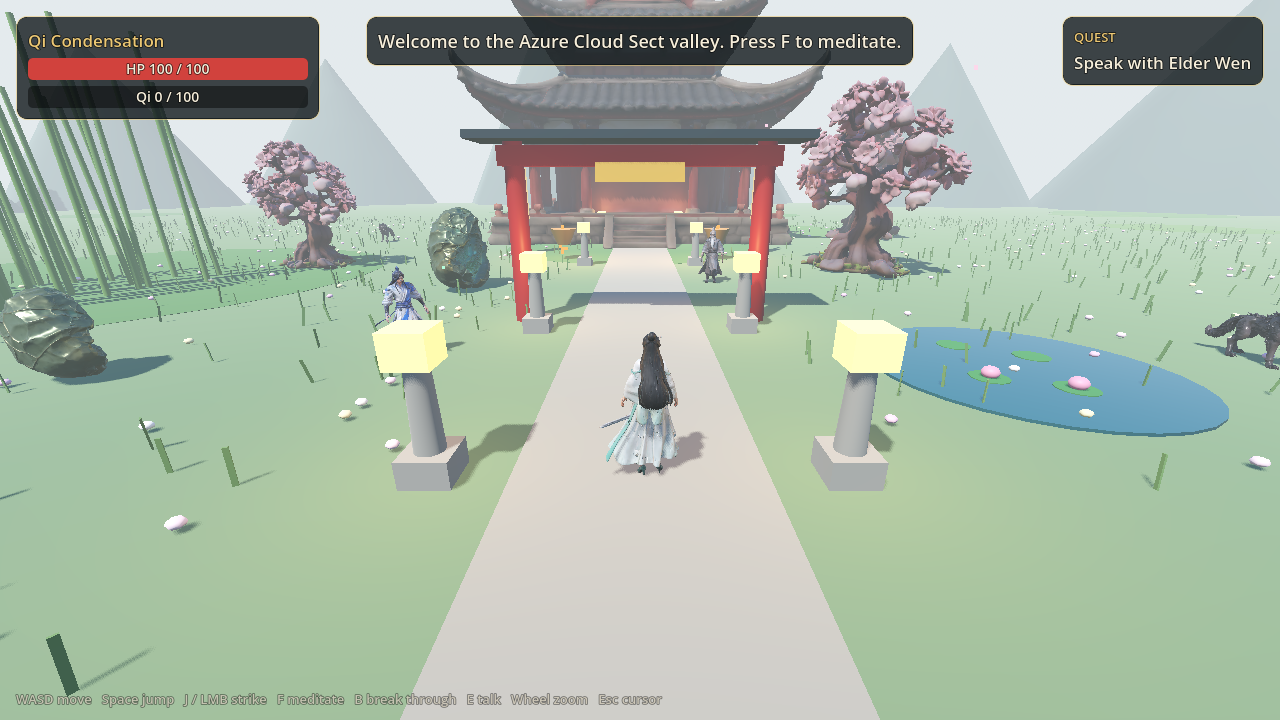
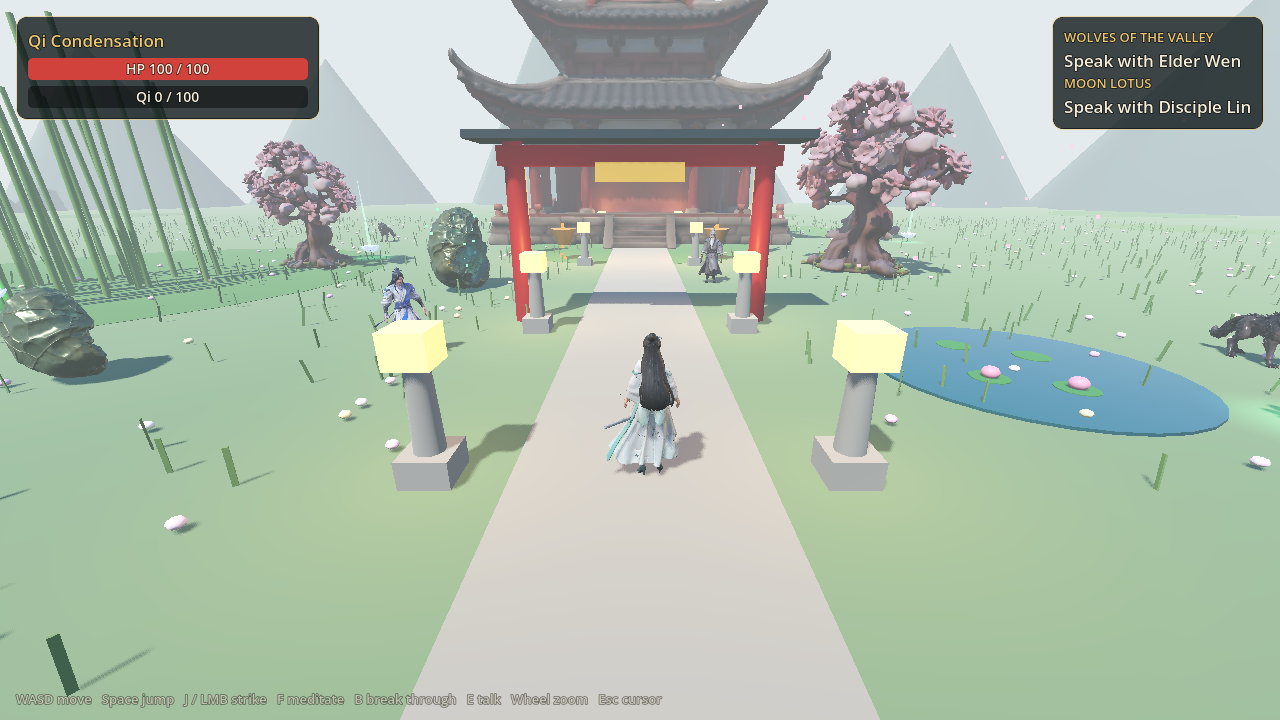
Document the quests and the Compatibility renderer fix, refresh screenshots
Claude-Session: https://claude.ai/code/session_01YPkfWWBpRmAJmyiDTuDRBs

diff --git a/docs/architecture.md b/docs/architecture.md
@@ -14,8 +14,10 @@ flowchart TD
     main --> ground["Ground + stone path"]
     main --> scenery["Scenery props<br/>walk-in sect hall, spirit trees, jade rocks"]
     main --> decor["ValleyDecor<br/>mountains, grass, flowers, pond,<br/>bamboo, lanterns, gate, braziers"]
-    main --> npcs["Npc x2<br/>Elder Wen (quest), Disciple Lin"]
-    main --> beasts["SpiritBeast x3<br/>demon wolves"]
+    main --> npcs["Npc x2<br/>Elder Wen (wolves, alpha), Disciple Lin (moon lotus)"]
+    main --> beasts["SpiritBeast x3<br/>demon wolves, respawn after 30 s"]
+    main -.-> alpha["SpiritBeast<br/>Demon Wolf Alpha, spawned by Elder Wen's second quest"]
+    main --> herbs["SpiritHerb x6<br/>moon lotuses"]
     main --> hud["Hud (CanvasLayer)"]
     main --> player["Cultivator (player)"]
     player --> visual["Visual (rigged female cultivator)"]
@@ -30,15 +32,16 @@ flowchart TD
 flowchart LR
     subgraph Core
         cultivation["Cultivation<br/>qi and realms"]
-        quest["WolfQuest<br/>accept, count, turn in"]
+        quest["CountQuest x3<br/>accept, count, turn in"]
         animator["CharacterAnimator<br/>clips and one-shot actions"]
-        model_utils["ModelUtils<br/>fit, bounds, yaw"]
+        model_utils["ModelUtils<br/>fit, bounds, yaw,<br/>Compatibility normal-map fix"]
         input_setup["InputSetup<br/>key bindings"]
     end
     subgraph Gameplay
         player["Cultivator"]
         beast["SpiritBeast"]
         npc["Npc"]
+        herb["SpiritHerb"]
     end
     decor["ValleyDecor<br/>procedural scenery"]
     main["Main<br/>wiring"]
@@ -60,7 +63,10 @@ flowchart LR
     player -- message / stats_changed / prompt_changed --> hud
     beast -- died(qi_reward) --> main
     npc -- talked --> main
-    main -- update_stats / set_quest --> hud
+    herb -- gathered --> main
+    player -- "interact() on the nearest interactable" --> npc
+    player -- "interact()" --> herb
+    main -- update_stats / set_quests --> hud
 ```
 
 ## Class overview
@@ -75,12 +81,20 @@ classDiagram
         +gain_qi(amount)
         +try_breakthrough() bool
     }
-    class WolfQuest {
+    class CountQuest {
         +Step step
-        +int slain
-        +record_kill()
+        +int done
+        +String giver
+        +String task
+        +record()
         +talk() float
         +objective_text() String
+    }
+    class SpiritHerb {
+        +String display_name
+        +float qi_reward
+        +prompt_text() String
+        +interact(player)
     }
     class CharacterAnimator {
         +play(state)
@@ -97,8 +111,10 @@ classDiagram
     }
     class SpiritBeast {
         +float hp
+        +Color aura
         +CharacterAnimator animator
         +take_damage(amount)
+        +is_dead() bool
     }
     class Npc {
         +String display_name
@@ -110,12 +126,14 @@ classDiagram
     }
     class Hud {
         +update_stats(hp, max_hp, realm, qi, qi_required, at_peak)
-        +set_quest(text, complete)
+        +set_quests(entries)
+        +quest_lines() PackedStringArray
         +show_message(text, duration)
     }
     class ModelUtils {
         <<static>>
         +fit_to_height(root, height) AABB
+        +fix_skinned_normal_maps(root, method) int
         +yaw_towards(direction) float
     }
     class ValleyDecor {
@@ -123,7 +141,9 @@ classDiagram
         +build(root)
     }
     class Main {
-        -WolfQuest _quest
+        -CountQuest _quest
+        -CountQuest _alpha_quest
+        -CountQuest _herb_quest
     }
     Cultivator *-- Cultivation : owns
     Cultivator *-- CharacterAnimator : drives
@@ -132,7 +152,9 @@ classDiagram
     Cultivator ..> SpiritBeast : strikes
     SpiritBeast ..> Cultivator : attacks
     Npc ..> Cultivator : interacts with
-    Main *-- WolfQuest : owns
+    Main *-- CountQuest : owns 3
+    Main o-- SpiritHerb
+    SpiritHerb ..> Cultivator : gathered by
     Main o-- Cultivator
     Main o-- SpiritBeast
     Main o-- Npc
@@ -140,21 +162,44 @@ classDiagram
     Main ..> ValleyDecor : builds
 ```
 
-## Quest state
+## Quests
 
-`WolfQuest` holds the rules, and `Main` shows the dialogue. Every wolf slain is counted, including
-wolves killed before the quest was accepted. Talking to Elder Wen accepts the quest and turns it in
-on the same visit when enough wolves are already slain.
+Each quest is a `CountQuest`: pure rules for accepting, counting and turning in, with the giver's
+name and the task in its objective. `Main` owns three and shows the dialogue. Everything counts,
+including what was done before the quest was accepted, and talking to the giver accepts the quest
+and turns it in on the same visit when the count is already met.
 
 ```mermaid
 stateDiagram-v2
     [*] --> NotStarted
-    NotStarted --> Active: talk to Elder Wen (accept)
-    NotStarted --> Complete: talk after 2 wolves slain (accept and turn in, +150 qi)
-    Active --> Active: talk before 2 wolves are slain
-    Active --> Complete: talk after 2 wolves are slain (+150 qi)
+    NotStarted --> Active: talk to the giver (accept)
+    NotStarted --> Complete: talk with the count already met (accept and turn in)
+    Active --> Active: talk before the count is met
+    Active --> Complete: talk after the count is met (reward)
     Complete --> [*]
 ```
+
+The three quests and what they pay:
+
+```mermaid
+flowchart LR
+    subgraph wen["Elder Wen"]
+        wolves["Wolves of the valley<br/>slay 2 demon wolves<br/>+150 qi"] --> alpha["The alpha<br/>talk again: the alpha appears behind the hall<br/>slay it, +300 qi"]
+    end
+    subgraph lin["Disciple Lin"]
+        lotus["Moon lotus<br/>gather 4 of the 6 lotuses, +10 qi each<br/>turn in, +120 qi"] --> advice["Her advice lines"]
+    end
+    kills["Each wolf slain<br/>+40 qi, respawns in 30 s"] --> wolves
+```
+
+The HUD lists Elder Wen's current hunt above Lin's lotus quest. A slain wolf of the pack returns to
+its den 30 s later, once the cultivator is at least 14 m away, so there is always qi to hunt for.
+The alpha is a `SpiritBeast` half as tall again as a wolf, with 220 health, a 16 damage bite and a
+red rim of qi drawn by an additive overlay shader; it does not respawn.
+
+Moon lotuses glow and carry a faint beam of qi so they can be found from across the valley. The
+cultivator's interact key talks to an NPC or gathers a lotus: both join the `interactables` group
+and share `prompt_text()` and `interact()`, and the nearest one within 3 m wins.
 
 ## Animation states
 
@@ -252,6 +297,34 @@ flowchart LR
     beast["SpiritBeast"] -- "yaw_towards(to_player)" --> yaw
 ```
 
+### Normal maps on the Compatibility renderer
+
+The game runs on Forward+, and Godot falls back to the Compatibility renderer (OpenGL 3) when
+Vulkan is missing. That renderer skins meshes in a transform-feedback pass that never binds the
+`TANGENT` attribute (`drivers/gles3/storage/mesh_storage.cpp` in 4.7.2), so every vertex of a
+skinned mesh comes out with the same tangent. A tangent-space normal map is then read in the wrong
+frame, and on the characters, whose UV charts all have their own tangent frames, faces broke into
+pale and dark patches. `ModelUtils.fix_skinned_normal_maps` turns the normal maps of skinned meshes
+off on that renderer only, which leaves the smooth vertex normals and the baked colour.
+
+```mermaid
+flowchart TD
+    model["Character GLB<br/>TANGENT per vertex, 2048 px normal map"] --> method{"Rendering method"}
+    method -- forward_plus / mobile --> fp["Skinned on the GPU with tangents<br/>normal map lit as baked"]
+    method -- gl_compatibility --> tf["Transform feedback skinning<br/>TANGENT never bound, one constant tangent"]
+    tf --> fix["fix_skinned_normal_maps<br/>override material, normal map off"]
+    fix --> clean["Smooth vertex normals<br/>and the 4096 px base colour"]
+```
+
+![Tangents of the skinned cultivator in both renderers](normal-fix/skinned_tangents.png)
+
+Left: `TANGENT` drawn as a colour on Forward+, one frame per UV chart as the file stores them.
+Right: the same on Compatibility, one colour everywhere.
+
+![The cultivator in the valley on the Compatibility renderer, before and after](normal-fix/in_game_compatibility.png)
+
+The cultivator in the valley on the Compatibility renderer, before and after.
+
 GLB textures are embedded in the GLB. Godot's import setting `gltf/embedded_image_handling=2`
 compresses them into the imported scene, so no texture files are extracted next to the models.
 
@@ -291,7 +364,7 @@ flowchart LR
     push["Push or pull request"] --> lint["lint job<br/>gdlint + gdformat --check"]
     push --> test["test job<br/>Godot 4.7.2 headless"]
     test --> import["godot --import"]
-    import --> run["run_tests.gd<br/>cultivation, quest, animation, model fitting,<br/>character rigs, scene boot, walking, hall"]
+    import --> run["run_tests.gd<br/>cultivation, quests, animation, model fitting,<br/>character rigs, scene boot, quest line, walking, hall"]
     lint --> result{"All checks pass?"}
     run --> result
 ```
@@ -301,7 +374,9 @@ faces +Z, that no vertex is pinned to the dummy `neutral_bone`, and that no tria
 6x in any of three poses of every clip. That last check skins the mesh on the CPU, so it catches
 the spikes and smeared textures that broken skin weights cause, which a screenshot would only show
 by eye. A walking check holds each movement key in turn and asserts that the cultivator ends up
-facing the way it moves.
+facing the way it moves. A quest-line check plays both quest givers through in the real scene:
+it gathers four lotuses and turns them in to Lin, slays two wolves for Elder Wen, takes the alpha
+quest, slays the alpha and checks the qi paid and the tracker at every step.
 
 Run the suite locally with:
 

diff --git a/README.md b/README.md
@@ -30,6 +30,10 @@ full-size 4096 px model, with extra room for the head, so faces stay sharp up cl
 | --- |
 | ![Wolf charge](docs/screenshots/wolf_charge.png) |
 
+| Gathering a moon lotus for Disciple Lin | The Demon Wolf Alpha behind the hall |
+| --- | --- |
+| ![Moon lotus](docs/screenshots/moon_lotus.png) | ![Wolf alpha](docs/screenshots/wolf_alpha.png) |
+
 ### Faces, before and after the texture bake
 
 ![The cultivator's face in the valley, before and after](docs/texture-fix/in_game_face.png)
@@ -39,6 +43,16 @@ full model into a layout that gives the head nine times the area per unit of sur
 [asset pipeline](docs/asset-pipeline.md#sharp-faces-bake-from-the-full-model) explains why the old
 face was soft and how the bake works. The new shot is `player_face_closeup.png`, taken with a
 camera closer than the game's zoom goes.
+
+### Faces on the Compatibility renderer, before and after
+
+![Faces on the Compatibility renderer, before and after](docs/normal-fix/faces_compatibility.png)
+
+When Vulkan is missing, Godot falls back to its Compatibility renderer, whose skinning pass drops
+the tangents of every skinned mesh. The characters' normal maps were then read in the wrong frame
+and their faces broke into pale and dark patches (left). The game now turns those normal maps off
+on that renderer only (right); Forward+ keeps them. See
+[Model handling](docs/architecture.md#normal-maps-on-the-compatibility-renderer).
 
 ### Animation, before and after the rig repair
 
@@ -57,8 +71,12 @@ Top: Tripo's own `walk`, in profile and torn by its skin weights. Bottom: the re
   the blade does, a quarter of a second after the key press. Wolves charge, flinch when hit and
   bite.
 - **Quest.** Elder Wen sends you after two wolves and rewards you with qi when you return. Wolves
-  slain before you accept the quest count towards it.
-- **Meet the sect.** Disciple Lin at the gate shares advice when you talk to her.
+  slain before you accept the quest count towards it. Talk to him again and he sends you after
+  the **Demon Wolf Alpha**, a larger wolf wreathed in red qi that waits behind the hall.
+- **Gather herbs.** Disciple Lin at the gate asks for four moon lotuses. They glow by the pond, in
+  the bamboo grove, under the spirit trees and behind the hall; press `E` beside one to gather it.
+  Once you have brought them she shares her advice.
+- **Keep hunting.** A slain wolf returns to its den 30 seconds later, once you are out of sight.
 - **Enter the sect hall.** The hall is twice the height of the other buildings. Climb the stairs on
   its east side, walk along the entry gallery and drop into the cella. Its walls, pillars and
   stairs block you exactly where they are drawn.
@@ -74,7 +92,7 @@ Top: Tripo's own `walk`, in profile and torn by its skin weights. Bottom: the re
 | Attack | `J` or left mouse button |
 | Meditate (toggle) | `F` |
 | Break through | `B` |
-| Talk to an NPC | `E` |
+| Talk to an NPC, gather a lotus | `E` |
 
 ## Running the game
 
@@ -89,7 +107,7 @@ godot --path .                       # launch the game
 
 ```bash
 godot --headless --path . --import
-godot --headless --path . --script res://tests/run_tests.gd   # 93 headless checks
+godot --headless --path . --script res://tests/run_tests.gd   # 135 headless checks
 pip install "gdtoolkit==4.5.0"
 gdlint scripts tests tools
 gdformat --check scripts tests tools
@@ -122,7 +140,7 @@ scripts/core/        cultivation rules, quest rules, animation driver, model fit
 scripts/player/      the cultivator (player)
 scripts/enemies/     spirit beast enemy AI
 scripts/npc/         NPC interaction base
-scripts/world/       procedural valley decoration
+scripts/world/       procedural valley decoration, moon lotuses
 scripts/ui/          HUD
 tests/               headless test runner
 tools/               asset generation, UV rebake and screenshot capture scripts
@@ -131,8 +149,8 @@ docs/                architecture, asset pipeline, screenshots
 
 ## Documentation
 
-- [Architecture](docs/architecture.md): scene tree, systems, quest and animation state diagrams,
-  and combat sequence.
+- [Architecture](docs/architecture.md): scene tree, systems, quest line, quest and animation state
+  diagrams, combat sequence and the Compatibility renderer fix.
 - [Asset pipeline](docs/asset-pipeline.md): Tripo workflow, rigging, asset table and previews.
 
 ## License

diff --git a/docs/asset-pipeline.md b/docs/asset-pipeline.md
@@ -265,8 +265,14 @@ to start with `No module named 'math'`: its embedded Python finds its standard l
 - The guard trades sharpness for safety on 0.3 to 3.8% of triangles, which are soft instead of
   wrong. Where the full model has a loose strand across a face, that triangle keeps the old,
   blurrier colour.
-- A dark vertical line runs down the face in the valley's light. It is there with the old model
-  too, so it comes from the lighting and not from the texture, and it was not investigated here.
+- A dark vertical line runs down the face in the valley's light. It stays with the normal map off,
+  with shadows off and with the sun hidden, it moves across the face when the cultivator turns, and
+  a plain sphere in the same spot shows it too. It comes from the sky's ambient light and not from
+  the model. It was seen with Mesa's software renderers (llvmpipe, lavapipe) and not checked on a
+  GPU.
+- The Compatibility renderer drops the tangents of skinned meshes, which made the faces patchy
+  there. The game turns the characters' normal maps off on that renderer; see
+  [Normal maps on the Compatibility renderer](architecture.md#normal-maps-on-the-compatibility-renderer).
 - Props still use the 2048 px export. The sect hall, spirit tree and jade rock are seen from a
   distance, and the same bake would work if they were ever seen close up.
 
